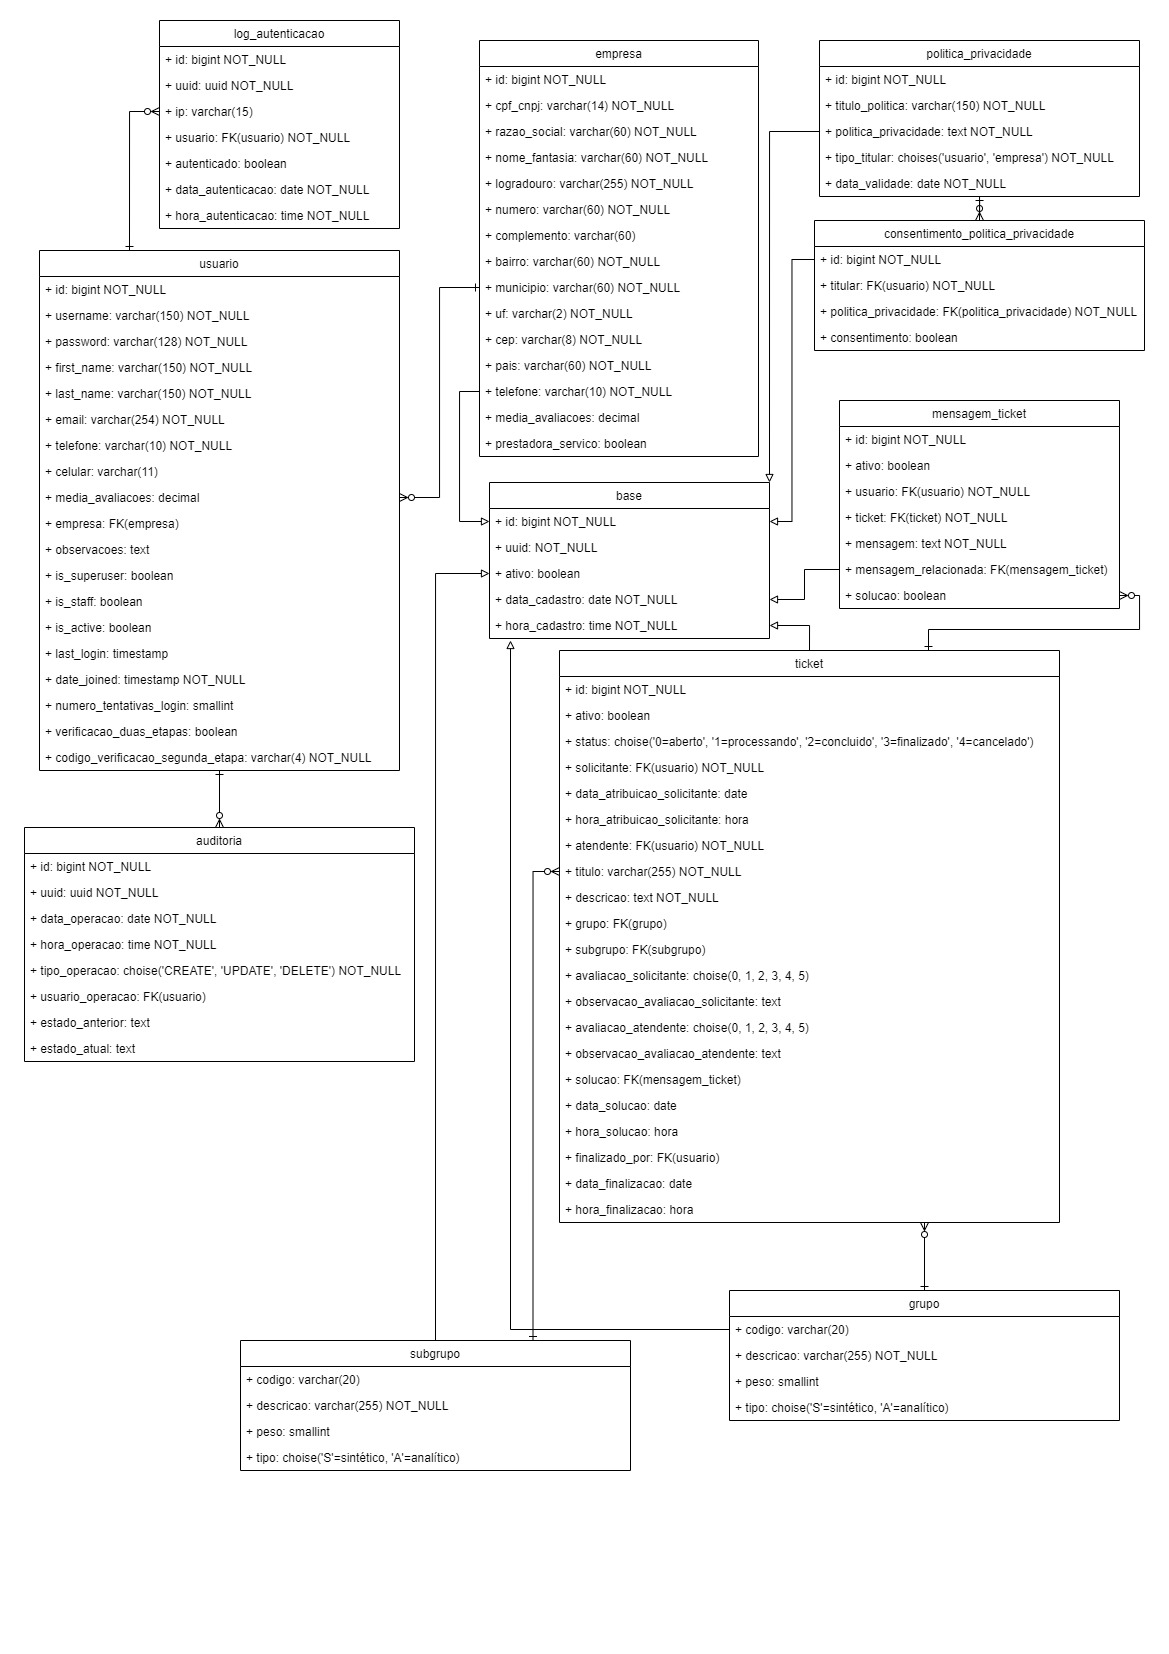
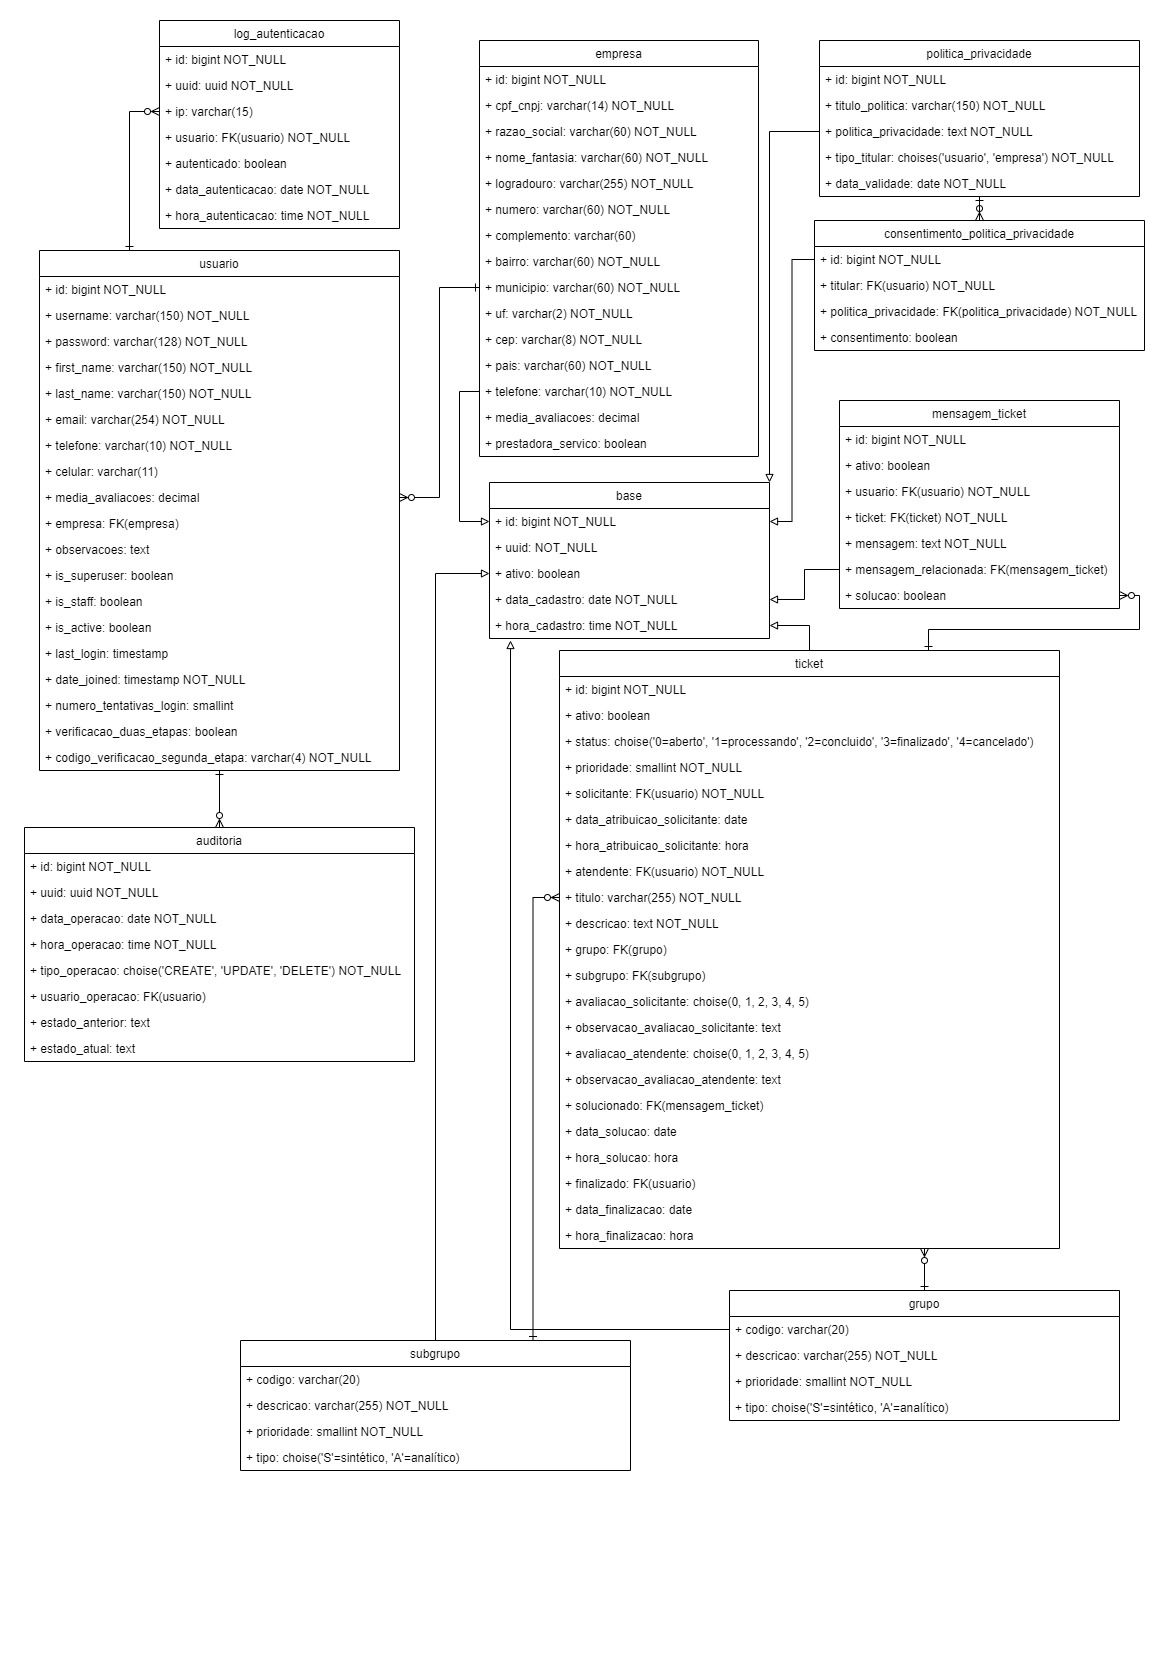
Correção do campo solucionado no serializer de ticket; Padronização dos serializers(incompleto)

Changed region(s): [[0.4927, 0.4625, 0.6775, 0.7709], [0.6467, 0.8325, 0.7083, 0.8634], [0.2464, 0.8634, 0.2772, 0.8942]]

diff --git a/agrupamento/filters.py b/agrupamento/filters.py
@@ -5,7 +5,7 @@ lookup_types_grupo = {
     'uuid': ['exact', 'in', ],
     'codigo': ['exact', 'iexact', 'icontains', 'istartswith', 'iendswith', 'in', 'iregex', ],
     'nome': ['exact', 'iexact', 'icontains', 'istartswith', 'iendswith', 'in', 'iregex', ],
-    'peso': [
+    'prioridade': [
         'exact',
         'iexact',
         'icontains',
@@ -25,7 +25,7 @@ lookup_types_subgrupo = {
     'uuid': ['exact', 'in', ],
     'codigo': ['exact', 'iexact', 'icontains', 'istartswith', 'iendswith', 'in', 'iregex', ],
     'nome': ['exact', 'iexact', 'icontains', 'istartswith', 'iendswith', 'in', 'iregex', ],
-    'peso': [
+    'prioridade': [
         'exact',
         'iexact',
         'icontains',
@@ -49,8 +49,8 @@ class GrupoFilter(filter.FilterSet):
             'uuid': lookup_types_grupo['uuid'],
             'codigo': lookup_types_grupo['codigo'],
             'nome': lookup_types_grupo['nome'],
-            'peso': lookup_types_grupo['peso'],
-            'tipo': lookup_types_grupo['peso'],
+            'prioridade': lookup_types_grupo['prioridade'],
+            'tipo': lookup_types_grupo['tipo'],
         }
 
 
@@ -61,6 +61,6 @@ class SubgrupoFilter(filter.FilterSet):
             'uuid': lookup_types_subgrupo['uuid'],
             'codigo': lookup_types_grupo['codigo'],
             'nome': lookup_types_subgrupo['nome'],
-            'peso': lookup_types_subgrupo['peso'],
-            'tipo': lookup_types_grupo['peso'],
+            'prioridade': lookup_types_subgrupo['prioridade'],
+            'tipo': lookup_types_grupo['tipo'],
         }

diff --git a/ticket/serializer.py b/ticket/serializer.py
@@ -189,12 +189,6 @@ class TicketSerializerPutPatch(TicketSerializer):
             'descricao',
             'grupo',
             'subgrupo',
-            'solucionado',
-            'data_solucao',
-            'hora_solucao',
-            'finalizado',
-            'data_finalizacao',
-            'hora_finalizacao',
             'data_cadastro',
             'hora_cadastro',
         ]
@@ -245,10 +239,10 @@ class MensagemTicketSerializerRetrieveTicket(MensagemTicketSerializer):
 class TicketSerializerRetrieve(TicketSerializer):
     solicitante = UsuarioSerializerSimples(read_only=True)
     atendente = UsuarioSerializerSimples(read_only=True)
-    mensagens = MensagemTicketSerializerRetrieveTicket(many=True, source='ticket_ticket_mensagem_ticket', read_only=True)
+    mensagens = MensagemTicketSerializerRetrieveTicket(many=True, read_only=True)
     grupo = GrupoSerializer(read_only=True)
     subgrupo = SubgrupoSerializer(read_only=True)
-    solucionado = MensagemTicketSerializerRetrieveTicket(source='solucionado_ticket_ticket', read_only=True)
+    solucionado = MensagemTicketSerializerRetrieveTicket(read_only=True)
     finalizado = UsuarioSerializerSimples(read_only=True)
 
     class Meta(TicketSerializer.Meta):

diff --git a/agrupamento/models.py b/agrupamento/models.py
@@ -25,10 +25,10 @@ class Grupo(Base):
         help_text='Nome do Grupo',
     )
 
-    peso = models.PositiveSmallIntegerField(
-        verbose_name='Peso',
+    prioridade = models.PositiveSmallIntegerField(
+        verbose_name='Prioridade',
         default=0,
-        help_text='Peso do Grupo',
+        help_text='Prioridade do Grupo',
     )
 
     tipo = models.CharField(
@@ -45,7 +45,7 @@ class Grupo(Base):
         verbose_name_plural = 'Grupos'
 
     def __str__(self):
-        return f'{self.id} - {self.nome}'
+        return self.uuid
 
 
 class Subgrupo(Base):
@@ -66,11 +66,10 @@ class Subgrupo(Base):
         help_text='Nome do Subgrupo',
     )
 
-
-    peso = models.PositiveSmallIntegerField(
-        verbose_name='Peso',
+    prioridade = models.PositiveSmallIntegerField(
+        verbose_name='Prioridade',
         default=0,
-        help_text='Peso do Subgrupo',
+        help_text='Prioridade do Subgrupo',
     )
 
     tipo = models.CharField(
@@ -87,4 +86,4 @@ class Subgrupo(Base):
         verbose_name_plural = 'Subgrupos'
 
     def __str__(self):
-        return f'{self.id} - {self.nome}'
+        return self.uuid

diff --git a/agrupamento/serializer.py b/agrupamento/serializer.py
@@ -22,13 +22,12 @@ class GrupoSerializer(serializers.ModelSerializer):
         ]
         extra_kwargs = {
             'codigo': {'allow_blank': True, },
-            'peso': {'allow_null': True, },
         }
         fields = [
             'uuid',
             'codigo',
             'nome',
-            'peso',
+            'prioridade',
             'tipo',
             'ativo',
             'data_cadastro',
@@ -44,13 +43,12 @@ class SubgrupoSerializer(serializers.ModelSerializer):
         ]
         extra_kwargs = {
             'codigo': {'allow_blank': True, },
-            'peso': {'allow_null': True, },
         }
         fields = [
             'uuid',
             'codigo',
             'nome',
-            'peso',
+            'prioridade',
             'tipo',
             'ativo',
             'data_cadastro',

diff --git a/politica_privacidade/models.py b/politica_privacidade/models.py
@@ -43,7 +43,7 @@ class PoliticaPrivacidade(Base):
         verbose_name_plural = 'Políticas de Privacidade'
 
     def __str__(self):
-        return f'{self.id} - {self.titulo}'
+        return self.uuid
 
 
 class ConsentimentoPoliticaPrivacidade(Base):
@@ -80,4 +80,4 @@ class ConsentimentoPoliticaPrivacidade(Base):
         verbose_name_plural = 'Consentimentos das Políticas de Privacidade'
 
     def __str__(self):
-        return f'{self.id} - {self.titular} - {self.politica_privacidade} [{self.consentimento}]'
+        return self.uuid

diff --git a/politica_privacidade/views.py b/politica_privacidade/views.py
@@ -1,5 +1,5 @@
 from rest_framework import viewsets, mixins
-from core.views import CreateModelMixinAuditoria, UpdateModelMixinAuditoria, DestroyModelMixinAuditoria
+from core.views import CreateModelMixinAuditoria, DestroyModelMixinAuditoria
 from .models import PoliticaPrivacidade, ConsentimentoPoliticaPrivacidade
 from .filters import PoliticaPrivacidadeFilter, ConsentimentoPoliticaPrivacidadeFilter
 from core.permissions import BasePemission

diff --git a/auditoria/models.py b/auditoria/models.py
@@ -74,4 +74,4 @@ class Auditoria(models.Model):
         verbose_name_plural = 'Auditoria'
 
     def __str__(self):
-        return f'{self.id} - {self.tipo_operacao} em {self.tabela_operacao} por {self.usuario_operacao}'
+        return self.uuid

diff --git a/empresa/models.py b/empresa/models.py
@@ -115,4 +115,4 @@ class Empresa(Base):
         verbose_name_plural = 'Empresas'
 
     def __str__(self):
-        return f'{self.id} - {self.razao_social} - {self.cpf_cnpj} [{self.ativo}]'
+        return self.uuid

diff --git a/empresa/views.py b/empresa/views.py
@@ -1,4 +1,3 @@
-from rest_framework import viewsets
 from core.views import ModelViewSetComAuditoria
 from .models import Empresa
 from .serializer import EmpresaSerializer, EmpresaSerializerAuditoria
